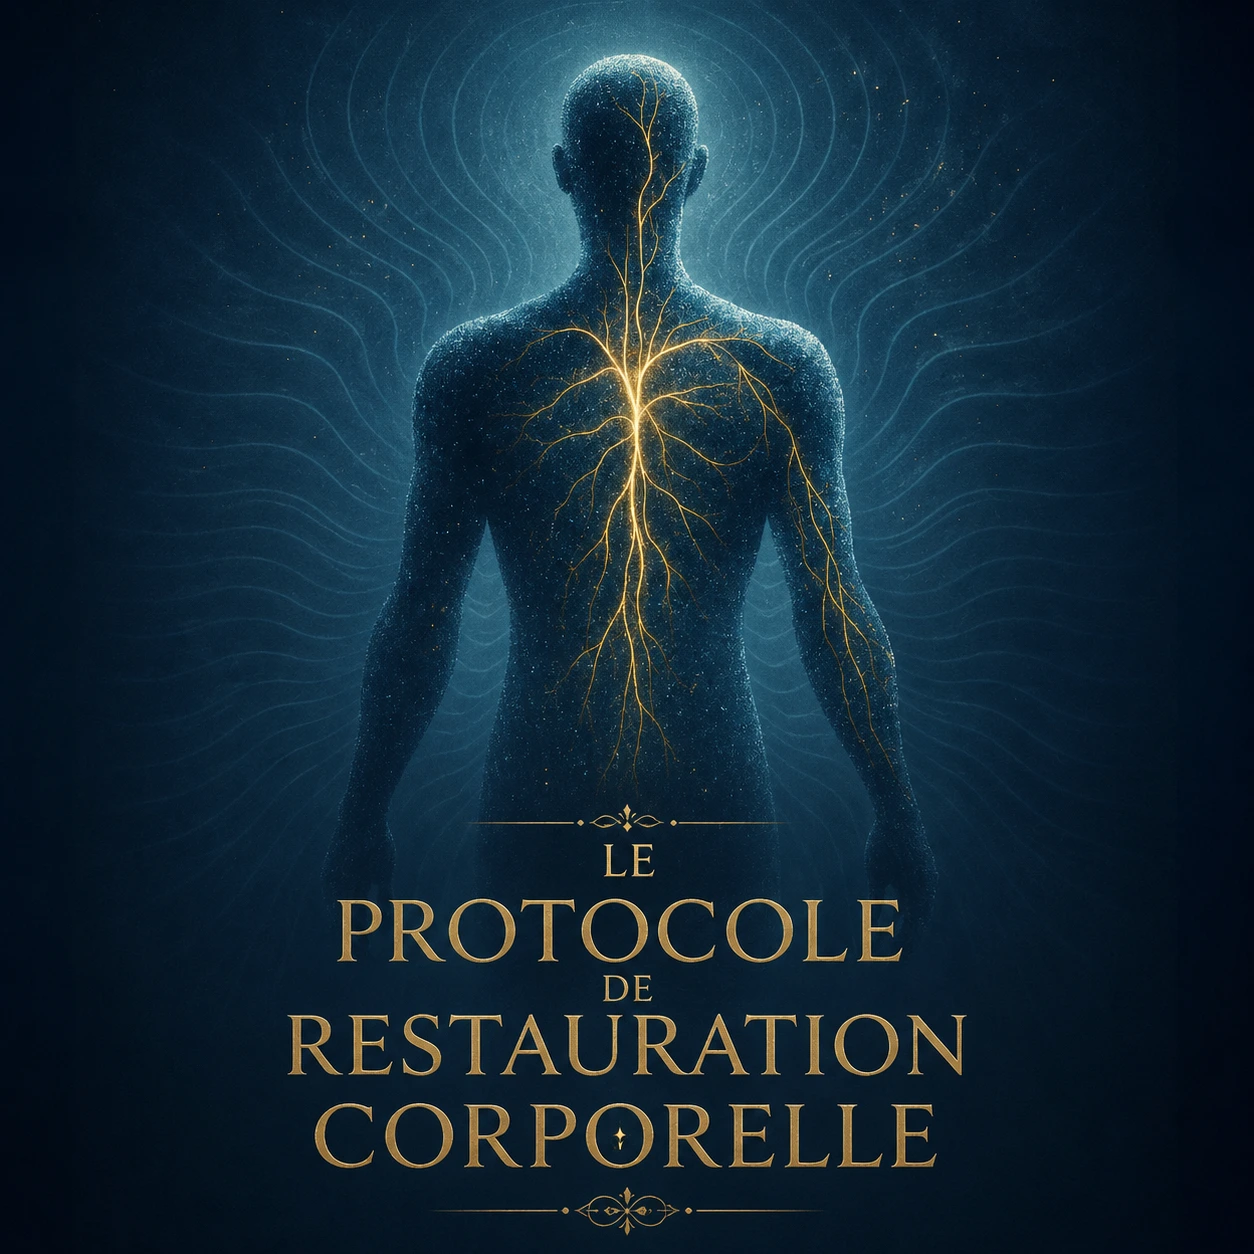
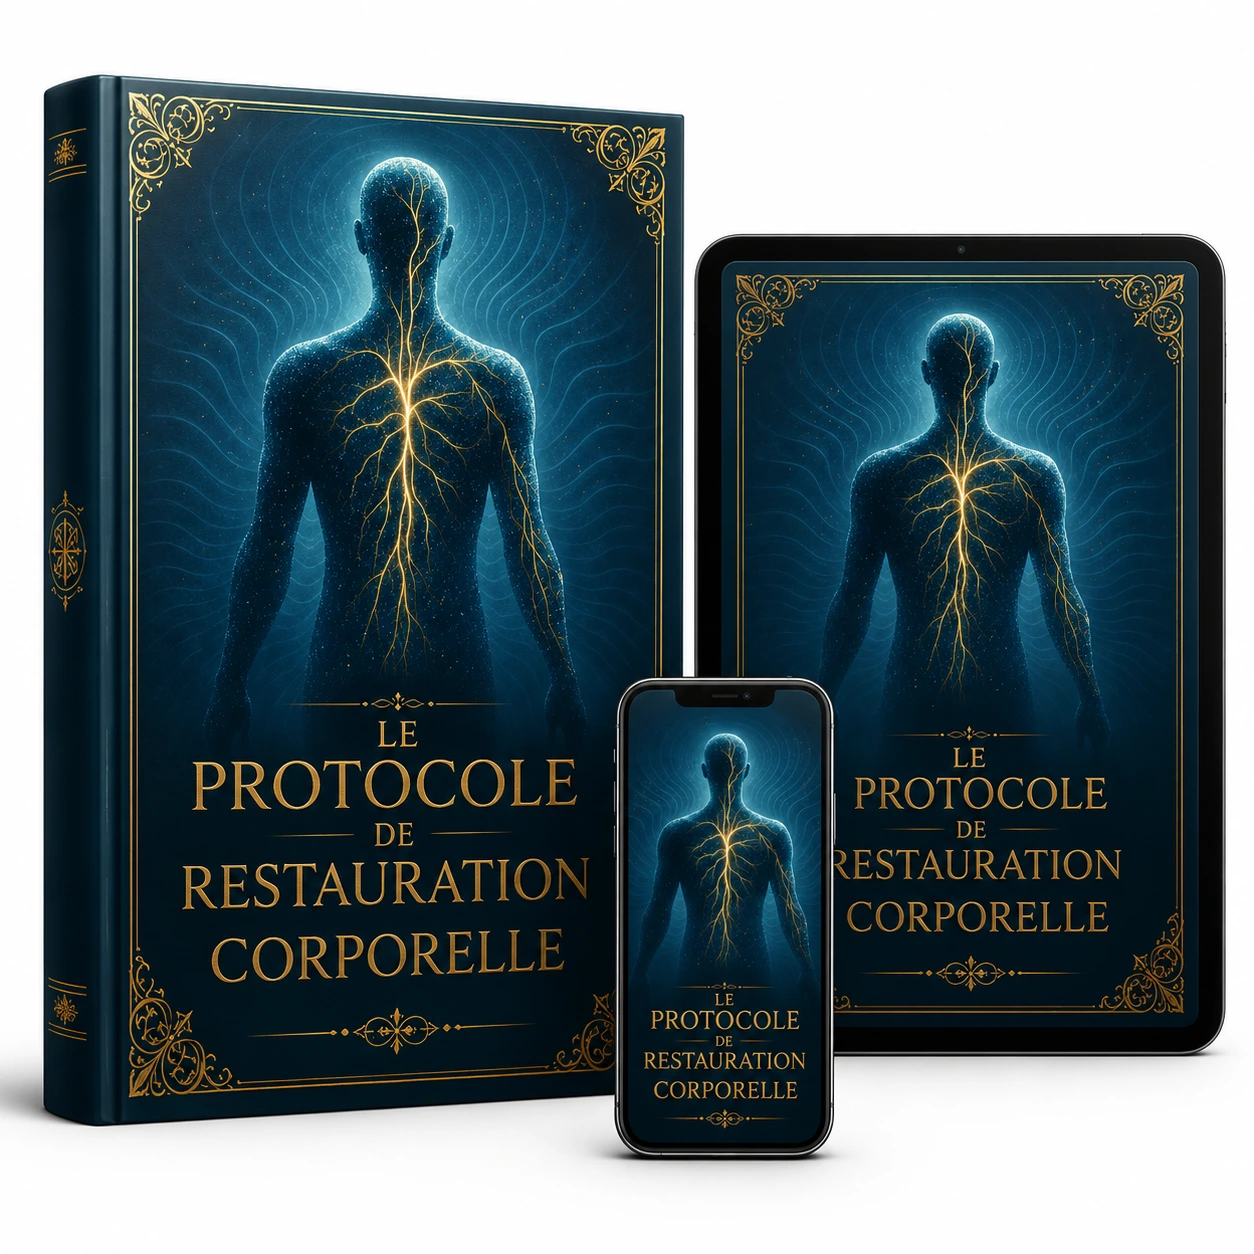
Up03: replace hero + button mockup with up03-specific assets

diff --git a/up03kj48xn2p.html b/up03kj48xn2p.html
@@ -377,7 +377,7 @@ src="https://www.facebook.com/tr?id=1347145910208137&ev=PageView&noscript=1"/></
           background: white; z-index: 9999; pointer-events: auto;
           display: flex; justify-content: center; box-sizing: border-box;
       ">
-        <img src="assets/images/triplo-books.webp" alt="Protocole Corporel">
+        <img src="assets/images/up03-button.webp" alt="Protocole Corporel">
       </div>
 
     </div>